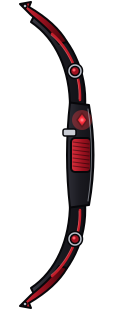
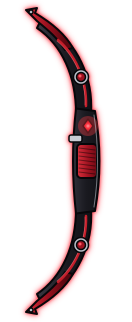
궁수 활 잘 보이게: 빛 테두리·크게·당길수록 빛남, 화살 크게 (#82)
- 활 그림에 적붉은 빛 테두리를 구움, 활 몸체 높이 70 → 90px, 몸 앞 28 → 34px
- 당길수록 시위·손잡이 보석이 붉게 빛나고 활 전체가 빛남 (활 전체 빛 그림 archer_bow_glow.png, 최대 밝기 0.5)
- 화살 그림 크게: 평타 30~48 → 50~70px, 유도 36 → 54px, 세로도 1.35배, 시위에 걸린 화살 34 → 46px (판정은 그대로)

Claude-Session: https://claude.ai/code/session_014LK3LCMRfeXrTGqs4qkV62

Changed region(s): [[0.15, 0.0, 0.8, 1.0]]

diff --git a/web/js/characters/archer.js b/web/js/characters/archer.js
@@ -6,7 +6,8 @@ const ARROW_COLORS = { impact: '111, 180, 255', explosive: '255, 120, 40', slow:
 const ARROW_LABELS = { impact: '충격 화살', explosive: '폭파 화살', slow: '감속 화살' };
 
 // 그림 (tools/archer_gen.js로 생성, 물체 그림이라 보통으로)
-const ARCHER_BOW_IMAGE = loadImage('assets/archer_bow.png'); // 120x310 활, 쏘는 방향 = 오른쪽, 손잡이 (81,155), 줄 고리 위 (25,6)·아래 (25,304)
+const ARCHER_BOW_IMAGE = loadImage('assets/archer_bow.png');       // 132x322 활 + 빛 테두리, 쏘는 방향 = 오른쪽, 손잡이 (87,161), 줄 고리 위 (31,12)·아래 (31,310), 보석 (88,126)
+const ARCHER_BOW_GLOW_IMAGE = loadImage('assets/archer_bow_glow.png'); // 132x322 당길수록 활 전체가 빛나는 그림 ('lighter', 같은 좌표)
 const ARCHER_ARROW_IMAGES = {                                 // 120x24 화살, 오른쪽을 향함, 오늬 x 1, 촉 끝 x 118
     impact: loadImage('assets/archer_arrow_impact.png'),
     explosive: loadImage('assets/archer_arrow_explosive.png'),
@@ -19,29 +20,46 @@ const ARCHER_PURPLE = '#a55cff';
 function drawArcherArrow(ctx, type, x, y, angle, len) {
     const img = ARCHER_ARROW_IMAGES[type];
     if (!isImageReady(img)) return;
-    const h = len * 24 / 120;
+    const h = len * 24 / 120 * 1.35; // 세로를 조금 더 키워 어두운 배경에서도 잘 보이게
     ctx.save(); ctx.translate(x, y); ctx.rotate(angle);
     ctx.drawImage(img, -len / 2, -h / 2, len, h);
     ctx.restore();
 }
 
-// 활 그림 + 코드로 그린 시위: 손잡이가 몸 앞 28px, 쏘는 방향을 보게. drawRatio(0~1)만큼 시위를 뒤로 당긴다. 화살 거는 곳을 돌려준다
+// 활 그림 + 코드로 그린 시위: 손잡이가 몸 앞 34px, 쏘는 방향을 보게. 활 몸체 높이 90px
+// drawRatio(0~1)만큼 시위를 뒤로 당기고, 당길수록 시위·보석·활 전체가 붉게 빛난다. 화살 거는 곳을 돌려준다
 function drawArcherBow(ctx, cx, cy, facing, drawRatio, alpha = 1) {
     const [fx, fy] = normalizeOr(facing);
-    const ang = Math.atan2(fy, fx), k = 70 / 310;            // 활 높이 70px
-    const gx = cx + fx * 28, gy = cy + fy * 28;               // 손잡이 위치 (몸 앞 28px)
+    const ang = Math.atan2(fy, fx), k = 90 / 298;            // 그림 속 활 몸체 높이 298 → 90px
+    const gx = cx + fx * 34, gy = cy + fy * 34;               // 손잡이 위치
     const local = (lx, ly) => [gx + (lx * Math.cos(ang) - ly * Math.sin(ang)) * k, gy + (lx * Math.sin(ang) + ly * Math.cos(ang)) * k];
-    const tip1 = local(25 - 81, 6 - 155), tip2 = local(25 - 81, 304 - 155);
-    const rest = local(25 - 81, 0);
-    const pull = 22 * drawRatio;
+    const tip1 = local(31 - 87, 12 - 161), tip2 = local(31 - 87, 310 - 161);
+    const rest = local(31 - 87, 0);
+    const pull = 28 * drawRatio;
     const nock = [rest[0] - fx * pull, rest[1] - fy * pull];
+    const glow = drawRatio * drawRatio;
     ctx.save();
     ctx.globalAlpha = alpha;
+    // 시위 (당길수록 붉은 빛)
+    if (glow > 0) {
+        ctx.save(); ctx.globalCompositeOperation = 'lighter';
+        ctx.strokeStyle = `rgba(255, 60, 80, ${0.5 * glow * alpha})`; ctx.lineWidth = 4;
+        ctx.beginPath(); ctx.moveTo(tip1[0], tip1[1]); ctx.lineTo(nock[0], nock[1]); ctx.lineTo(tip2[0], tip2[1]); ctx.stroke();
+        ctx.restore();
+    }
     ctx.strokeStyle = '#d8d8de'; ctx.lineWidth = 1.5;
     ctx.beginPath(); ctx.moveTo(tip1[0], tip1[1]); ctx.lineTo(nock[0], nock[1]); ctx.lineTo(tip2[0], tip2[1]); ctx.stroke();
-    if (isImageReady(ARCHER_BOW_IMAGE)) {
-        ctx.translate(gx, gy); ctx.rotate(ang);
-        ctx.drawImage(ARCHER_BOW_IMAGE, -81 * k, -155 * k, 120 * k, 310 * k);
+    ctx.translate(gx, gy); ctx.rotate(ang);
+    if (isImageReady(ARCHER_BOW_IMAGE)) ctx.drawImage(ARCHER_BOW_IMAGE, -87 * k, -161 * k, 132 * k, 322 * k);
+    if (glow > 0) {
+        ctx.globalCompositeOperation = 'lighter';
+        // 활 전체 빛 (다 당겨도 너무 밝지 않게 최대 0.5)
+        if (isImageReady(ARCHER_BOW_GLOW_IMAGE)) { ctx.globalAlpha = alpha * 0.5 * glow; ctx.drawImage(ARCHER_BOW_GLOW_IMAGE, -87 * k, -161 * k, 132 * k, 322 * k); }
+        // 손잡이 보석 빛
+        const r = 4 + 9 * drawRatio, bx = 1 * k, by = -35 * k;
+        const g = ctx.createRadialGradient(bx, by, 0, bx, by, r);
+        g.addColorStop(0, 'rgba(255, 200, 210, 0.9)'); g.addColorStop(1, 'rgba(255, 40, 60, 0)');
+        ctx.globalAlpha = alpha * drawRatio; ctx.fillStyle = g; ctx.beginPath(); ctx.arc(bx, by, r, 0, Math.PI * 2); ctx.fill();
     }
     ctx.restore();
     return nock;
@@ -228,7 +246,7 @@ class ArcherArrow {
 
     draw(ctx) {
         if (this.exploded) return;
-        drawArcherArrow(ctx, this.arrowType, this.posX, this.posY, Math.atan2(this.direction[1], this.direction[0]), 30 + 18 * this.chargeRatio);
+        drawArcherArrow(ctx, this.arrowType, this.posX, this.posY, Math.atan2(this.direction[1], this.direction[0]), 50 + 20 * this.chargeRatio);
     }
 }
 
@@ -398,7 +416,7 @@ class ArcherHomingArrow {
         }
         ctx.fillStyle = 'rgba(165, 92, 255, 0.18)'; ctx.beginPath(); ctx.arc(this.posX, this.posY, 13 + Math.sin(t * 0.015) * 2, 0, Math.PI * 2); ctx.fill();
         ctx.restore();
-        drawArcherArrow(ctx, 'homing', this.posX, this.posY, ang, 36);
+        drawArcherArrow(ctx, 'homing', this.posX, this.posY, ang, 54);
     }
 }
 
@@ -501,7 +519,7 @@ function applyArcher(player) {
             // 활과 시위에 걸린 화살 (3연사 대기 중이면 3발)
             const nock = drawArcherBow(ctx, r.centerx, r.centery, player.facing, ratio);
             const [fx, fy] = normalizeOr(player.facing);
-            const len = 34, base = Math.atan2(fy, fx);
+            const len = 46, base = Math.atan2(fy, fx);
             const offsets = player.archerTripleShotPending ? [-12, 0, 12] : [0];
             for (const offset of offsets) {
                 const a = base + offset * Math.PI / 180;

diff --git a/tools/archer_gen.js b/tools/archer_gen.js
@@ -1,5 +1,6 @@
 // 궁수 그림 생성 (미리 구워두는 용도). 결과는 게임용 1/2 크기 → web/assets/에 복사
-//   archer_bow.png 120x310 : 활 (세로로 섬, 쏘는 방향 = 오른쪽, 손잡이 가운데 (81,155), 줄 거는 고리 위 (25,6)·아래 (25,304), 줄은 게임에서 그림) — 보통
+//   archer_bow.png 132x322 : 활 + 적붉은 빛 테두리 (세로로 섬, 쏘는 방향 = 오른쪽, 손잡이 가운데 (87,161), 줄 거는 고리 위 (31,12)·아래 (31,310), 줄은 게임에서 그림) — 보통
+//   archer_bow_glow.png 132x322 : 다 당겼을 때 활 전체가 빛나는 그림 (활과 같은 크기·좌표, 'lighter')
 //   archer_arrow_impact.png / _explosive / _frost / _homing  120x24 : 화살 (오른쪽을 향함, 오늬 x 1, 촉 끝 x 118, 가운데 y 12) — 보통
 //     충격(평타, 맞으면 밀쳐냄)·폭발·감속·유도(궁극기). 몸통·깃 모양은 같고 촉과 색만 다름
 //   preview_archer.png (확인용)
@@ -61,7 +62,19 @@ const OUT = process.argv[2] || __dirname;
     g.fillStyle = 'rgba(255,60,70,0.35)'; g.beginPath(); g.arc(164, CY - 70, 20, 0, Math.PI * 2); g.fill();
     // 몸체 은색 테두리 선
     g.strokeStyle = 'rgba(200,205,215,0.55)'; g.lineWidth = 2; g.beginPath(); g.moveTo(176, CY - 92); g.quadraticCurveTo(190, CY, 176, CY + 92); g.stroke();
-    const bowH = half(bow);
+    // 어두운 배경에서도 윤곽이 보이게: 활 실루엣을 적붉게 칠해 번지게 한 빛 테두리를 뒤에 깐다 (가장자리 여백 12px)
+    const PAD = 12, rim = mk(bow.width + PAD * 2, bow.height + PAD * 2), rx = rim.getContext('2d');
+    const sil = mk(bow.width, bow.height), sx = sil.getContext('2d');
+    sx.drawImage(bow, 0, 0); sx.globalCompositeOperation = 'source-in'; sx.fillStyle = '#ff3a48'; sx.fillRect(0, 0, sil.width, sil.height);
+    for (const [bl, a] of [[7, 0.9], [3, 0.9]]) { rx.filter = `blur(${bl}px)`; rx.globalAlpha = a; rx.drawImage(sil, PAD, PAD); }
+    rx.filter = 'none'; rx.globalAlpha = 1; rx.drawImage(bow, PAD, PAD);
+    const bowH = half(rim);
+    // 다 당겼을 때 활 전체가 빛나는 그림: 실루엣을 밝은 적붉은 빛으로 번지게 ('lighter'로 겹쳐 그림, 활 그림과 같은 크기·좌표)
+    const gl = mk(rim.width, rim.height), gx = gl.getContext('2d');
+    const silB = mk(bow.width, bow.height), sb = silB.getContext('2d');
+    sb.drawImage(bow, 0, 0); sb.globalCompositeOperation = 'source-in'; sb.fillStyle = '#ff6070'; sb.fillRect(0, 0, silB.width, silB.height);
+    for (const [bl, a] of [[10, 1], [4, 0.8], [0, 0.45]]) { gx.filter = bl ? `blur(${bl}px)` : 'none'; gx.globalAlpha = a; gx.drawImage(silB, PAD, PAD); }
+    const bowGlow = half(gl);
 
     // ---------- 화살: 몸통·깃은 같고, 촉과 색만 종류마다 다르게 (오른쪽을 향함, 꼬리 x 4, 촉 끝 x 116, 가운데 y 12) ----------
     const arrow = (col, head) => {
@@ -132,9 +145,9 @@ const OUT = process.argv[2] || __dirname;
     const pv = mk(560, 240), pc = pv.getContext('2d');
     pc.fillStyle = '#d8d8dc'; pc.fillRect(0, 0, 280, 240); pc.fillStyle = '#1e1e24'; pc.fillRect(280, 0, 280, 240);
     arrows.forEach((ar, i) => { pc.drawImage(ar, 20, 20 + i * 55, 240, 48); pc.drawImage(ar, 300, 20 + i * 55, 240, 48); });
-    return { bow: bowH.toDataURL(), arrows: arrows.map((ar) => ar.toDataURL()), pv: pv.toDataURL() };
+    return { bow: bowH.toDataURL(), bowGlow: bowGlow.toDataURL(), arrows: arrows.map((ar) => ar.toDataURL()), pv: pv.toDataURL() };
   });
   const save = (n, u) => fs.writeFileSync(`${OUT}/${n}`, Buffer.from(u.split(',')[1], 'base64'));
-  save('archer_bow.png', res.bow); ['impact', 'explosive', 'frost', 'homing'].forEach((n, i) => save(`archer_arrow_${n}.png`, res.arrows[i])); save('preview_archer.png', res.pv);
+  save('archer_bow.png', res.bow); save('archer_bow_glow.png', res.bowGlow); ['impact', 'explosive', 'frost', 'homing'].forEach((n, i) => save(`archer_arrow_${n}.png`, res.arrows[i])); save('preview_archer.png', res.pv);
   await b.close();
 })();
